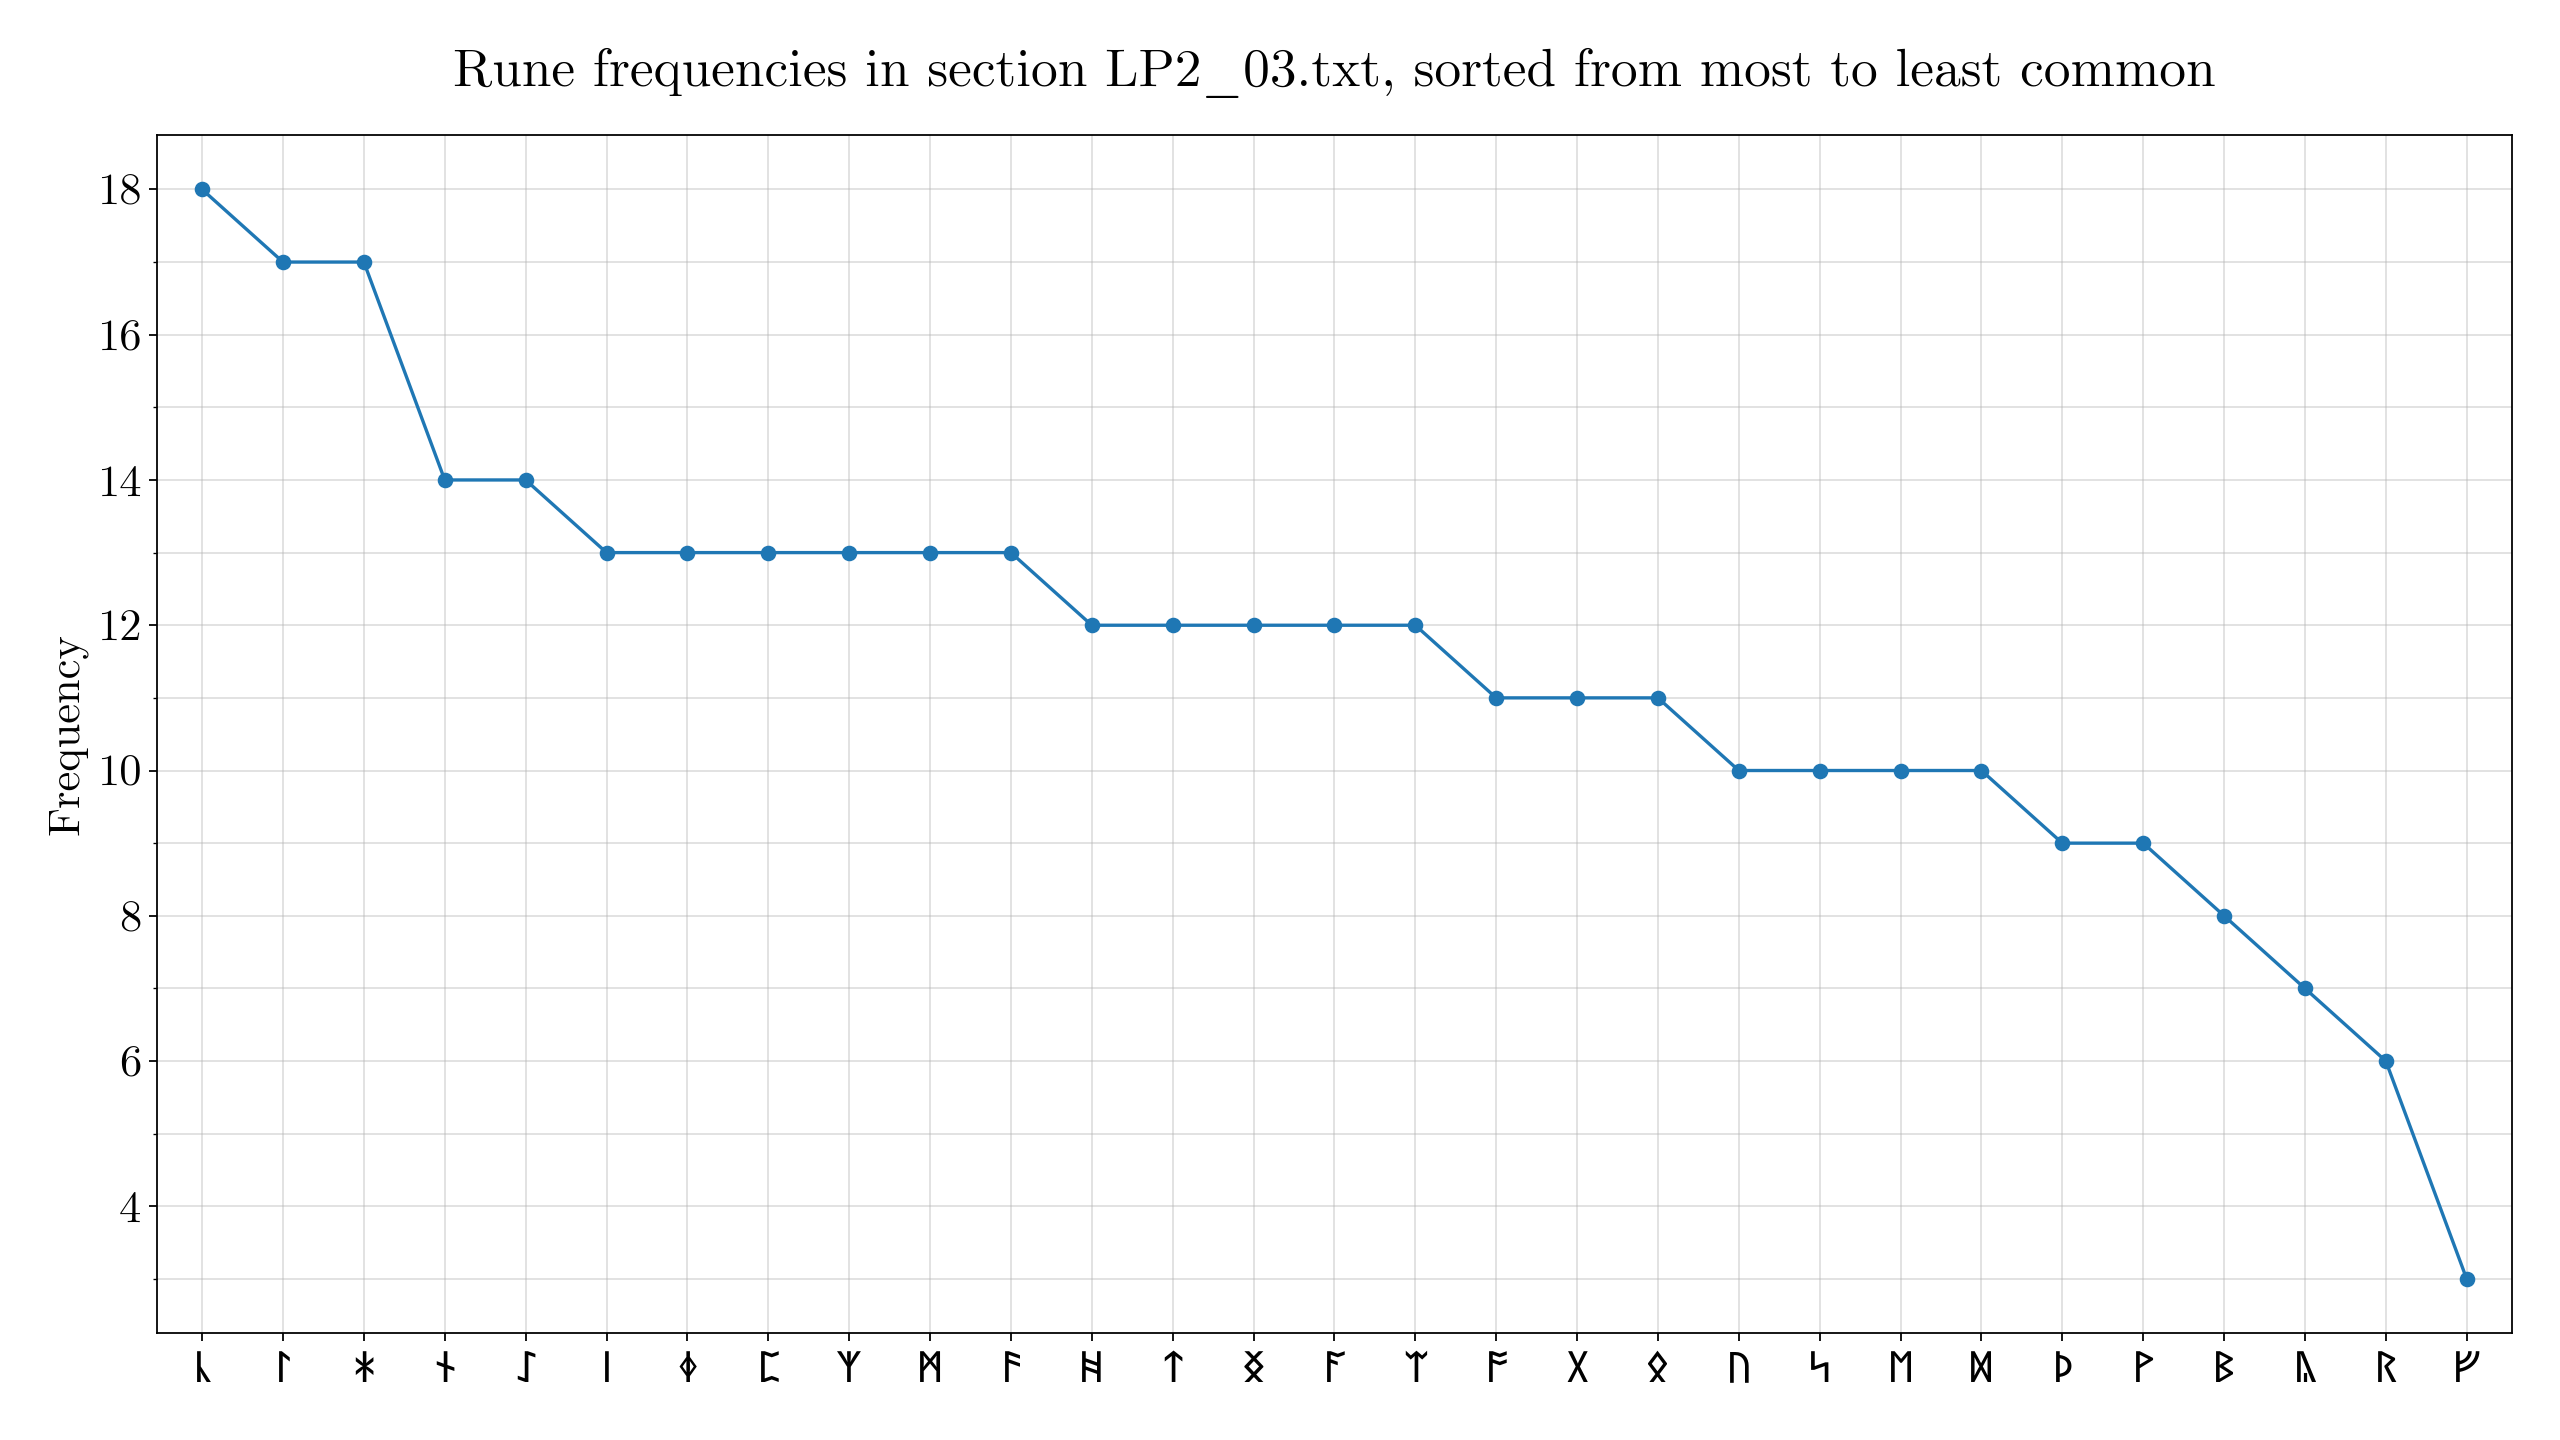
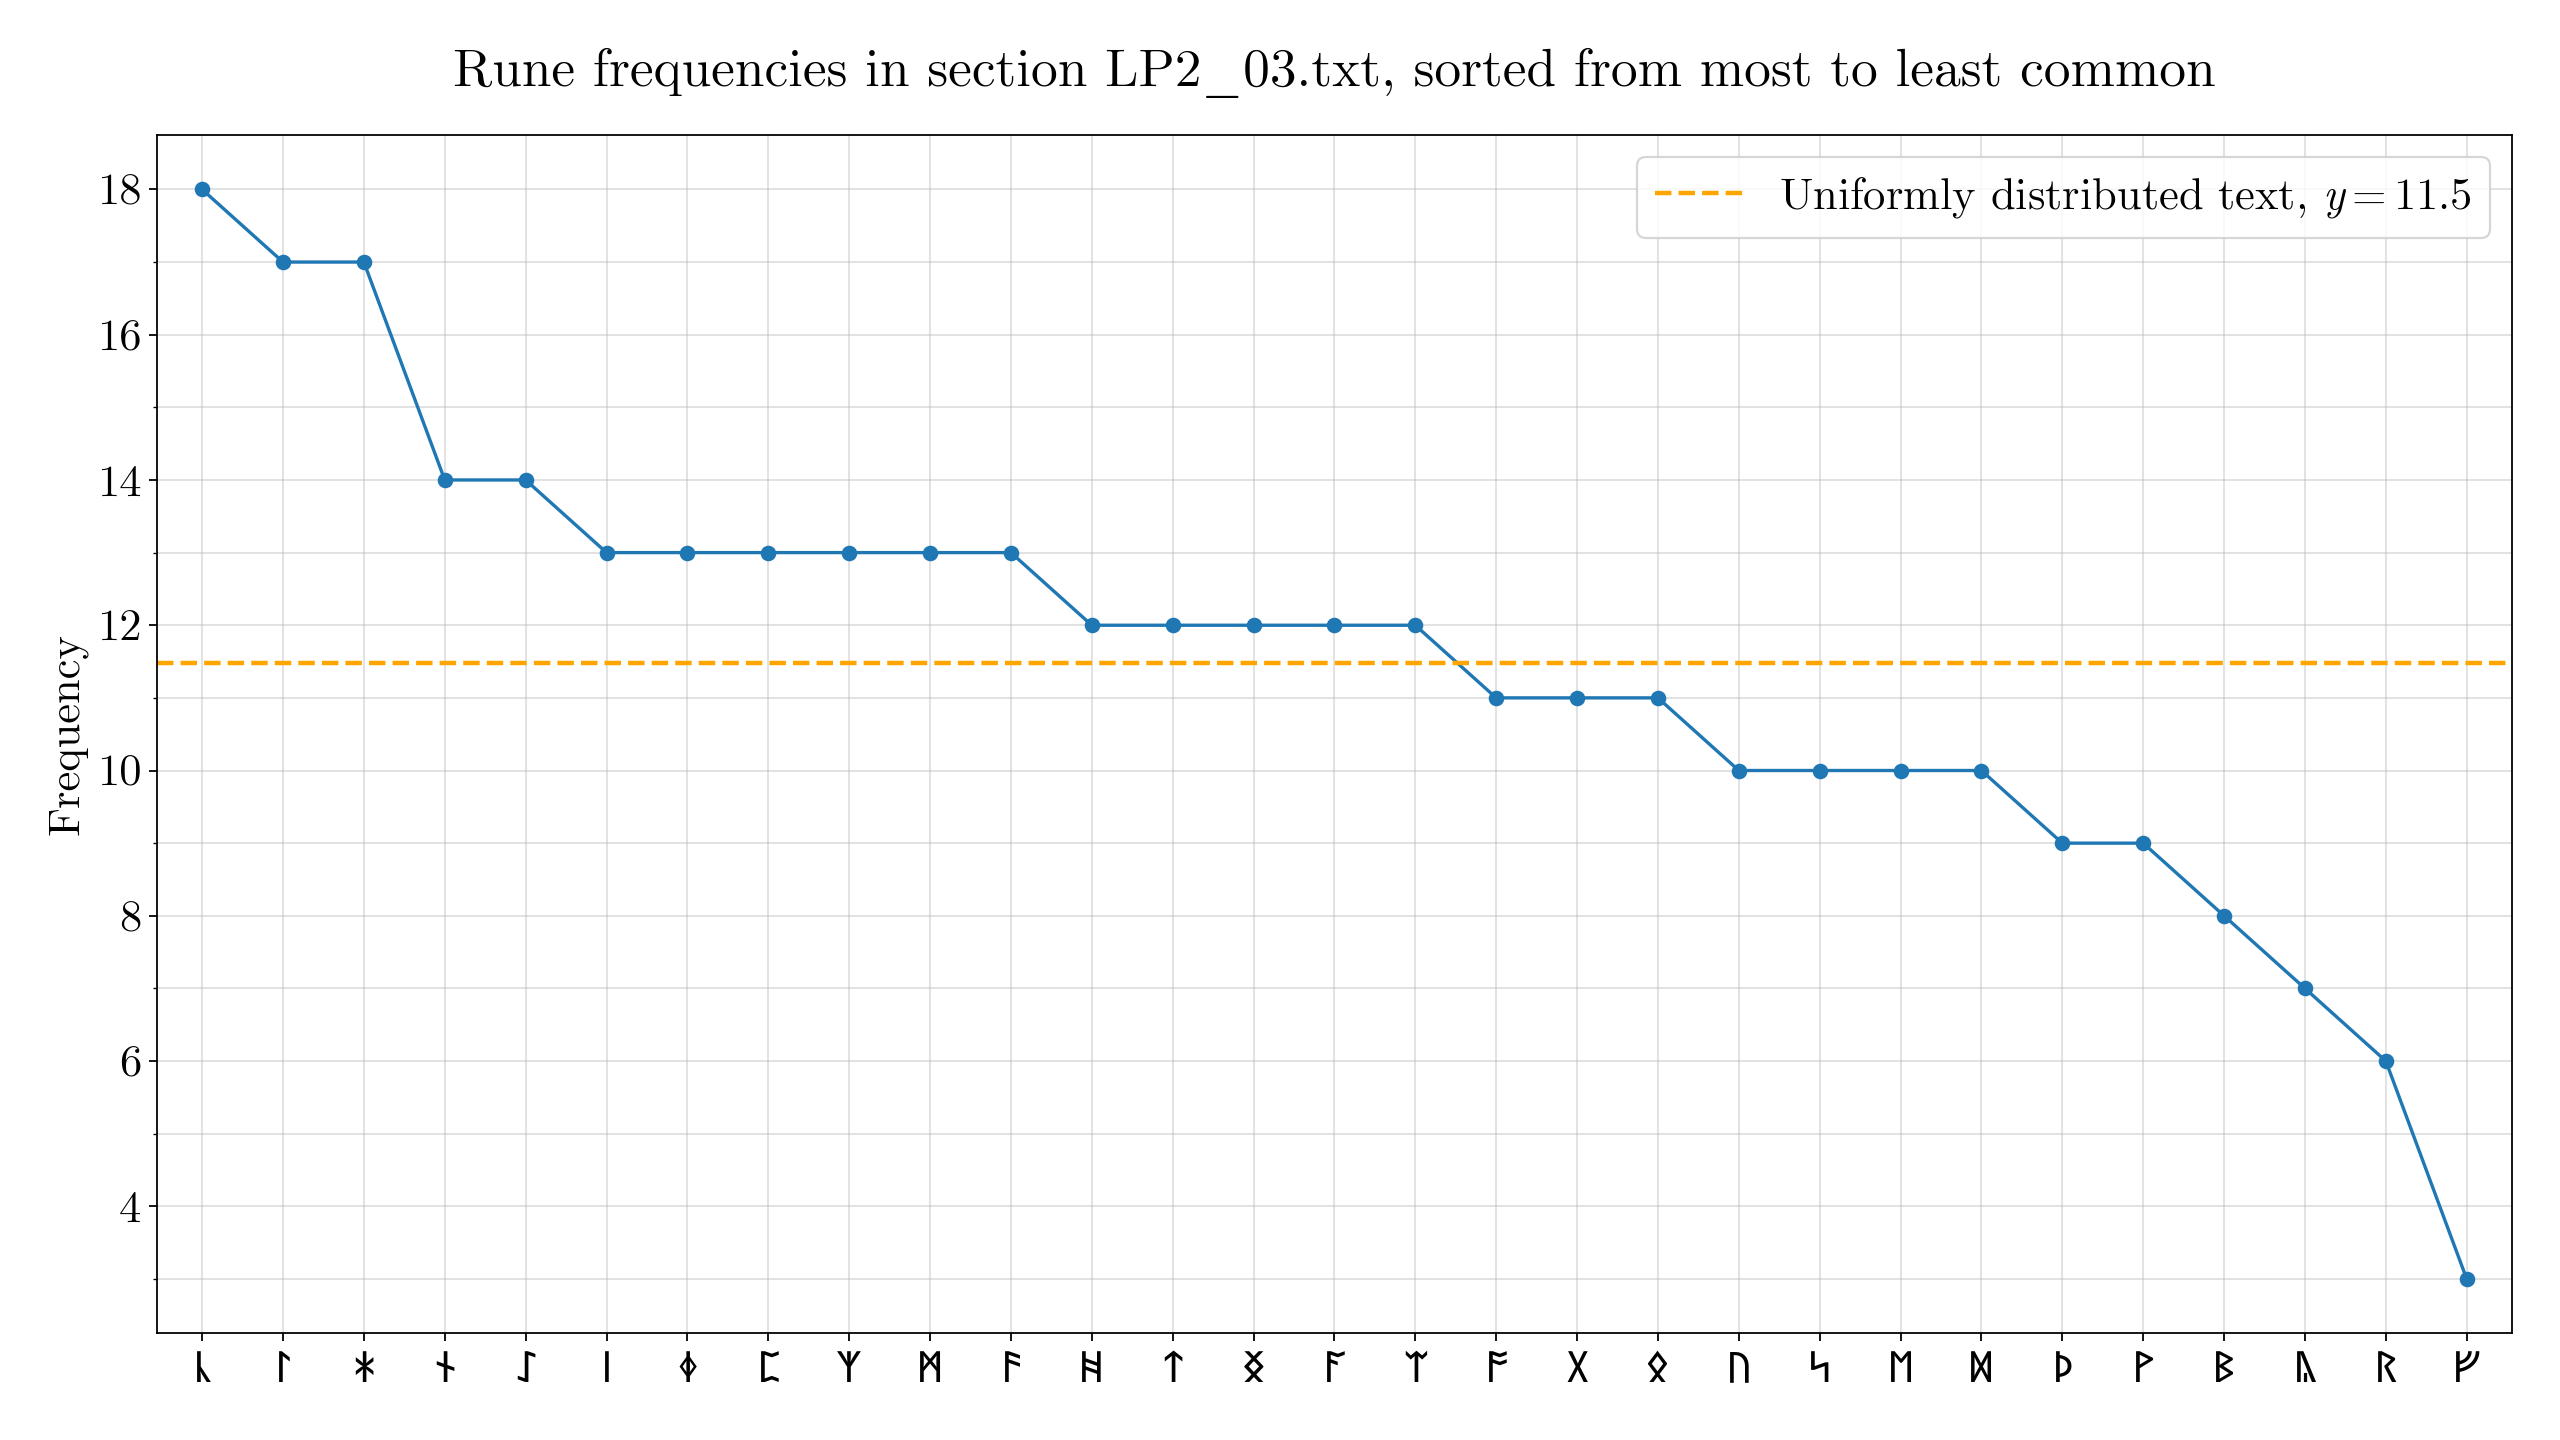
Add plot marker for uniformly distributed text

diff --git a/tools/rune_frequency_plotter.py b/tools/rune_frequency_plotter.py
@@ -13,10 +13,15 @@ def main():
     plt.rcParams["figure.dpi"] = 160
     plt.rcParams["font.size"] = 20
     plt.rcParams["font.family"] = "Computer Modern Serif"
+    plt.rcParams["mathtext.fontset"] = "custom"
+    plt.rcParams["mathtext.rm"] = "Computer Modern Serif"
+    plt.rcParams["mathtext.it"] = "Computer Modern Serif Italic"
     plt.rcParams['axes.unicode_minus'] = False
 
     fm.fontManager.ttflist.append(
         fm.FontEntry(fname="C:/Windows/Fonts/cmunrm.ttf", name="Computer Modern Serif"))
+    fm.fontManager.ttflist.append(
+        fm.FontEntry(fname="C:/Windows/Fonts/cmunti.ttf", name="Computer Modern Serif Italic"))
     # This font must support runic characters.
     fm.fontManager.ttflist.append(fm.FontEntry(
         fname="C:/Windows/Fonts/seguihis.ttf", name="Segoe UI Historic"))
@@ -44,12 +49,21 @@ def main():
             plt.plot(sorted(frequencyData.values(), reverse=True))
             plt.scatter(sorted(frequencyData.keys(), key=lambda x: frequencyData[x], reverse=True),
                         sorted(frequencyData.values(), reverse=True))
+
+            flatY = sum(frequencyData.values()) / len(frequencyData.values())
+            plt.axhline(y=flatY, linestyle="--",
+                        linewidth=2, color="orange", label=f"Uniformly distributed text, $y={round(flatY, 1)}$")
+            # plt.annotate(, xy=(
+            # 0, flatY), xytext=(len(frequencyData.values()) - 3, flatY + 0.5))
+
             plt.xticks(fontname="Segoe UI Historic")
             plt.gca().set_title(
                 f"Rune frequencies in section {part}_{sectionPath.split('.')[0].zfill(2)}.txt, sorted from most to least common", pad=22)
             plt.ylabel(
                 "Frequency")
             plt.tight_layout()
+
+            plt.legend()
 
             plt.savefig(os.path.join(os.path.dirname(
                 __file__), f"../docs/assets/images/LP/frequency-data/{part}/relative-rune-frequencies-{sectionPath.split('.')[0].zfill(2)}.png"))
